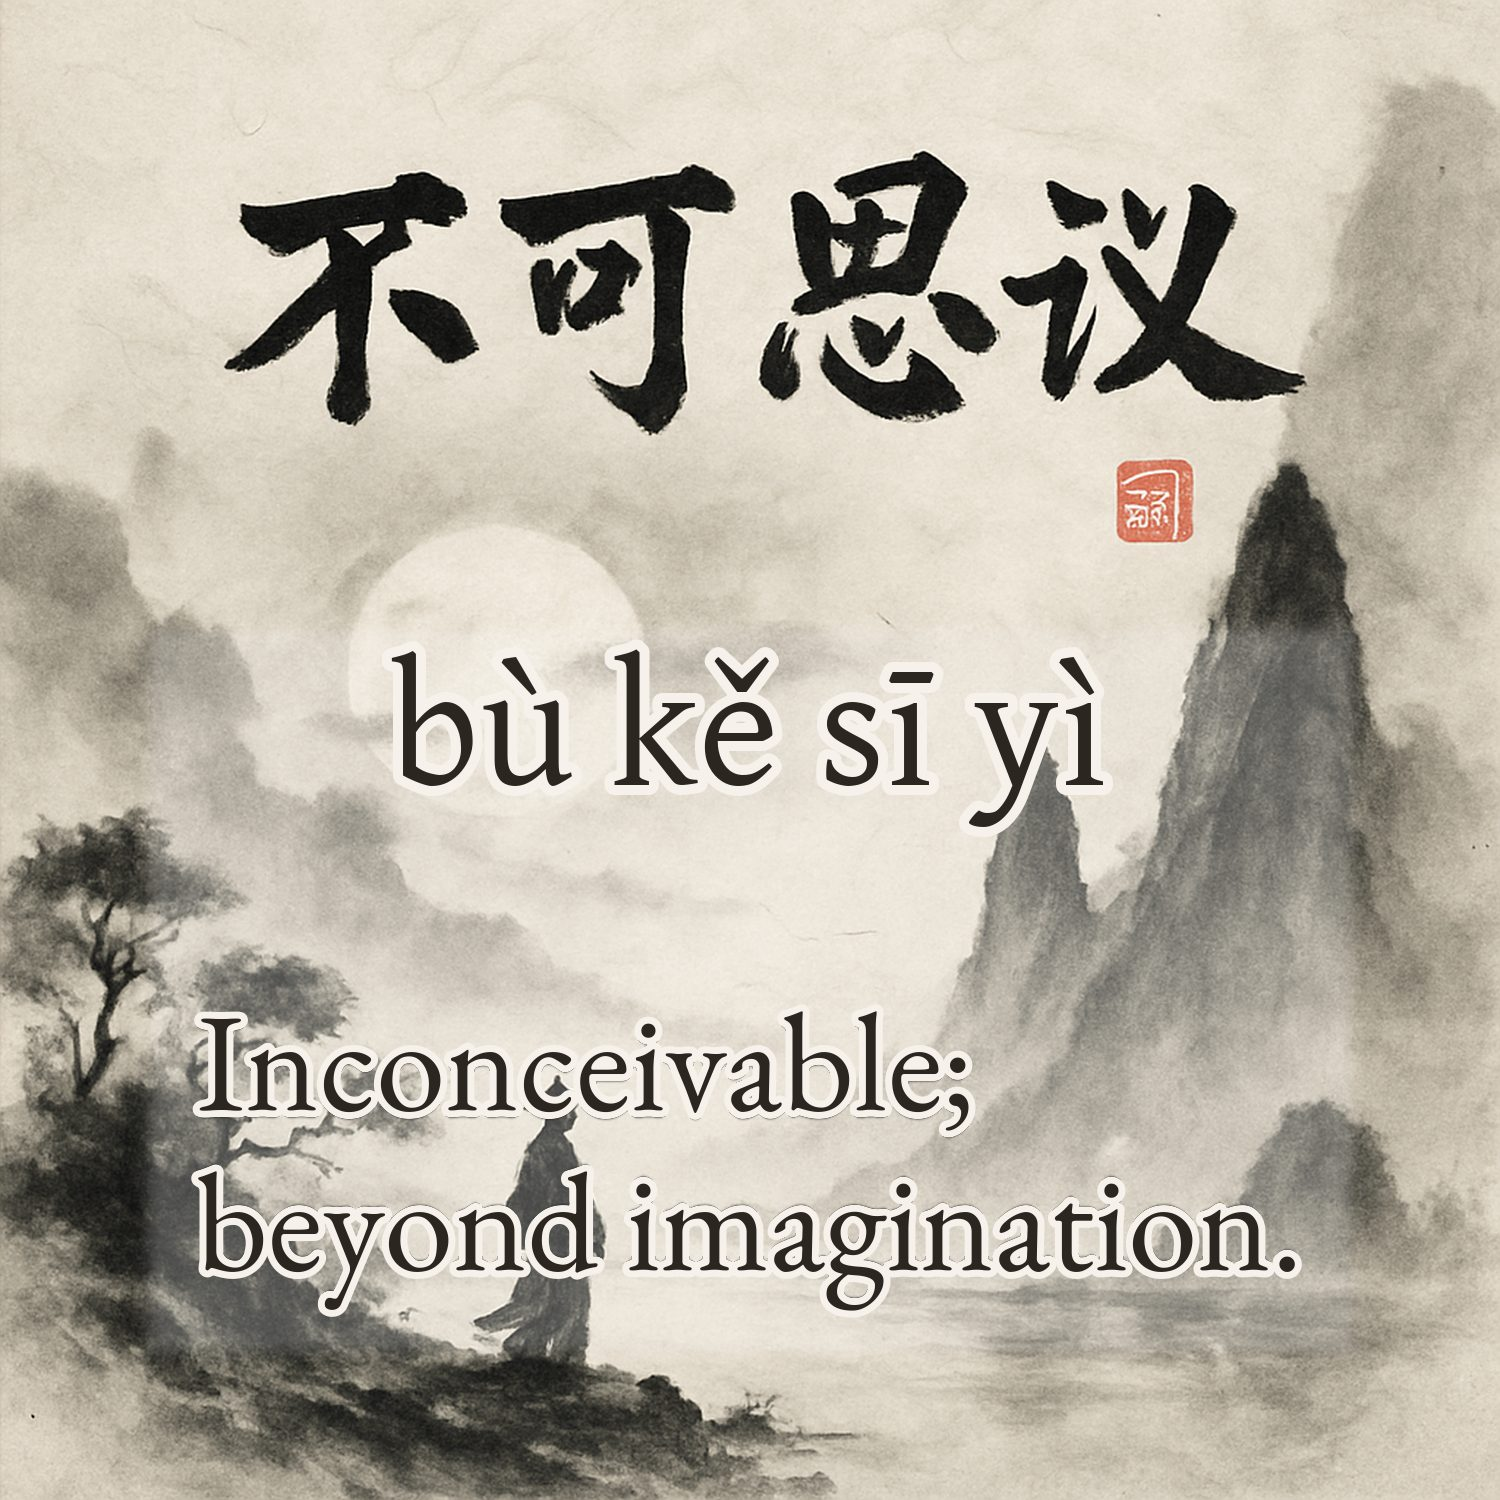
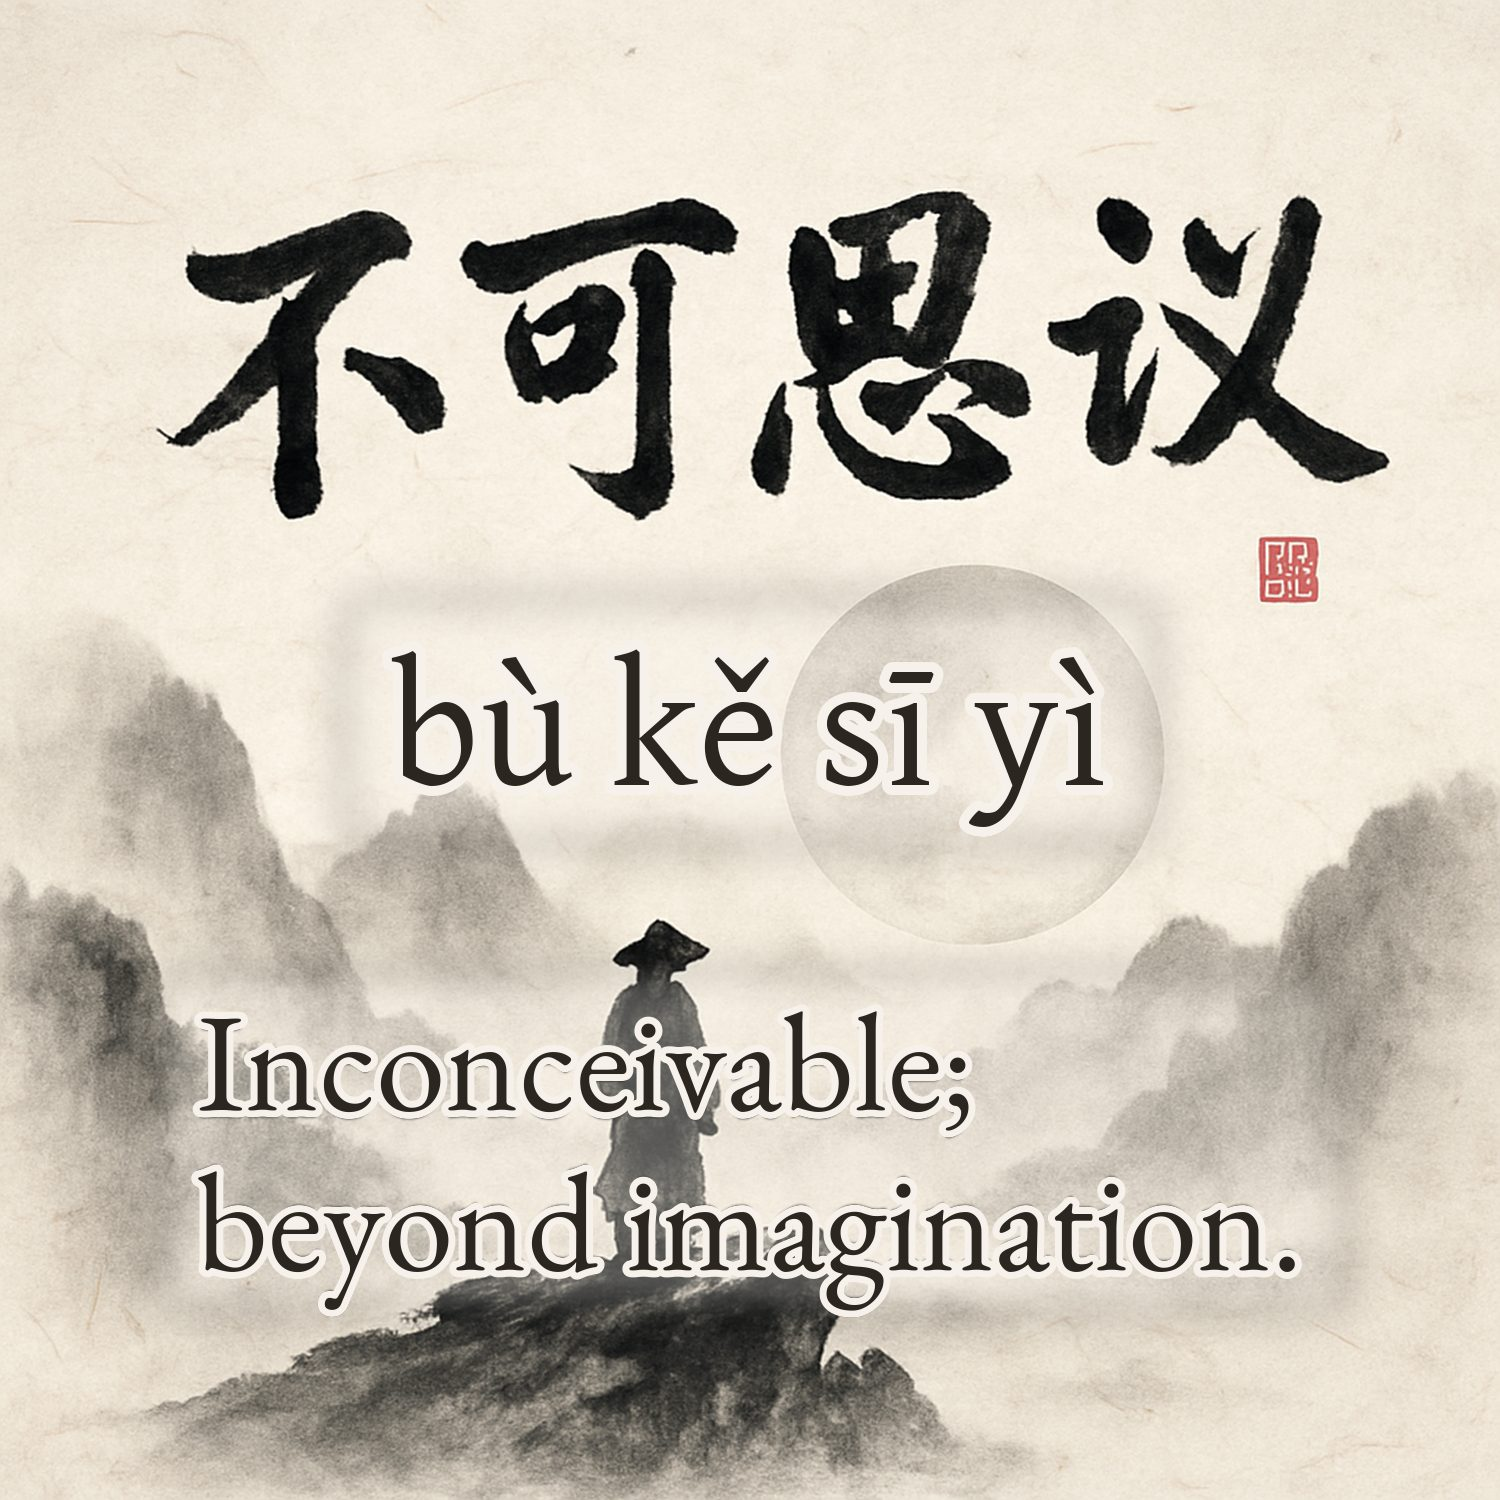
Backfill covers (hybrid): 19 images, 1 posts updated

diff --git a/_posts/2025-08-26-bai-wen-bu-ru-yi-jian.md b/_posts/2025-08-26-bai-wen-bu-ru-yi-jian.md
@@ -3,10 +3,11 @@ layout: post
 title: 百闻不如一见 (bǎi wén bù rú yī jiàn)
 date: 2025-08-26 10:00:00 +0000
 description: Hearing a hundred times is not as good as seeing once.
-cover_image: /episodes/2025-08-26-bai-wen-bu-ru-yi-jian/cover.png
+cover_image: /episodes/2025-08-26-bai-wen-bu-ru-yi-jian/cover.jpg
 audio_url: /episodes/2025-08-26-bai-wen-bu-ru-yi-jian/audio.mp3
 audio_bytes: 1440768
 ---
+
 
 This idiom emphasizes the value of firsthand experience.
 
